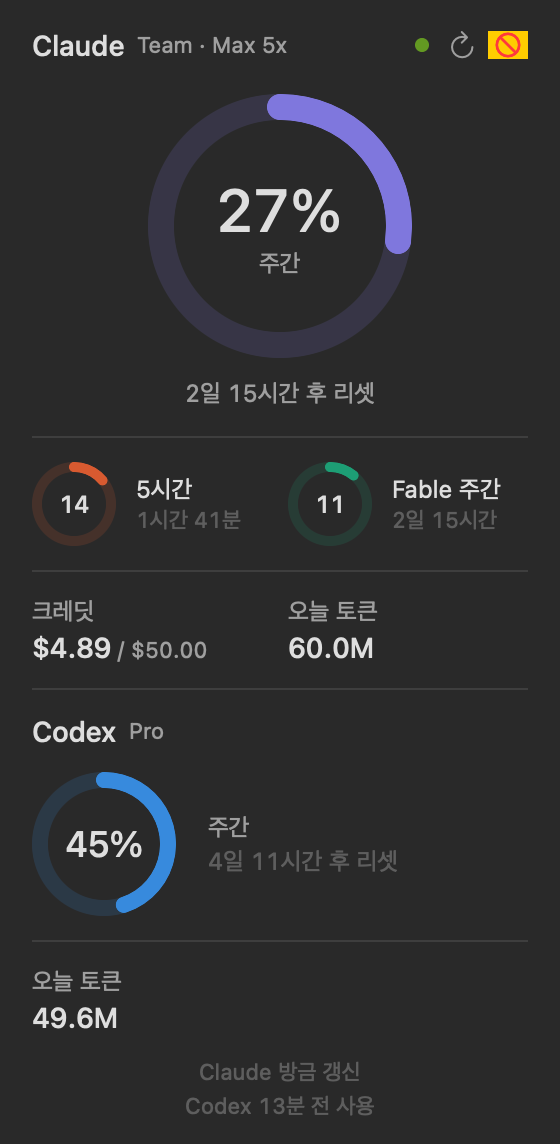
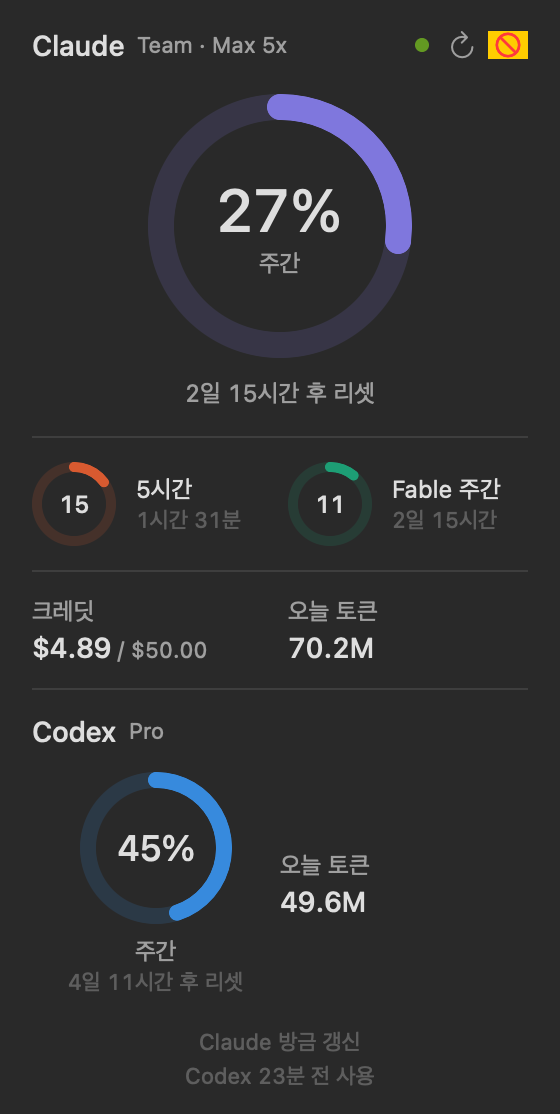
macOS: Codex section as one row (ring, name and reset below, stats on the right)

diff --git a/macos/Sources/ClaudeUsageBar/PanelView.swift b/macos/Sources/ClaudeUsageBar/PanelView.swift
@@ -91,7 +91,7 @@ struct PanelView: View {
                     .padding(.top, 12).padding(.bottom, 12)
             } else {
                 if primary { hero(s, now: now).padding(.top, 16).padding(.bottom, 14) }
-                else { sideHero(s, now: now).padding(.top, 12).padding(.bottom, 12) }
+                else { sideHero(s, now: now).padding(.top, 12).padding(.bottom, 4) }
                 let others = s.rows.filter { $0.id != s.active?.id }
                 if !others.isEmpty {
                     Divider()
@@ -102,7 +102,8 @@ struct PanelView: View {
                     .padding(.vertical, 12)
                 }
             }
-            if !s.stats.isEmpty {
+            // 두 번째 섹션(기본 모드)은 통계를 도넛 오른쪽에 붙였으므로 따로 줄을 두지 않는다
+            if !s.stats.isEmpty && (primary || settings.compactPanel) {
                 Divider()
                 HStack(alignment: .top) {
                     ForEach(Array(s.stats.enumerated()), id: \.offset) { _, st in
@@ -179,23 +180,32 @@ struct PanelView: View {
         }
     }
 
-    /// 두 번째 섹션용: 도넛 옆에 이름·리셋.
+    /// 두 번째 섹션용: 도넛과 그 아래 이름·리셋, 오른쪽에 통계(오늘 토큰 등).
     @ViewBuilder
     private func sideHero(_ s: Section, now: Date) -> some View {
         if let a = s.active {
-            HStack(spacing: 16) {
-                ZStack {
-                    Donut(percent: a.percent, color: Palette.color(for: a, stale: s.stale(a)), lineWidth: 8)
-                    Text("\(Format.percent(a.percent))%").font(.system(size: 18, weight: .medium)).monospacedDigit()
+            // 도넛 칸을 섹션 폭의 절반으로 두어, 오른쪽 통계가 위 섹션의 두 번째 칸(오늘 토큰)과 같은 줄에 선다
+            HStack(alignment: .center, spacing: 0) {
+                VStack(spacing: 6) {
+                    ZStack {
+                        Donut(percent: a.percent, color: Palette.color(for: a, stale: s.stale(a)), lineWidth: 8)
+                        Text("\(Format.percent(a.percent))%").font(.system(size: 18, weight: .medium)).monospacedDigit()
+                    }
+                    .frame(width: 76, height: 76)
+                    VStack(spacing: 1) {
+                        Text(a.name).font(.system(size: 12)).foregroundStyle(.secondary).lineLimit(1)
+                        Text(resetText(a, now: now)).font(.system(size: 11)).foregroundStyle(.tertiary).monospacedDigit()
+                    }
                 }
-                .frame(width: 72, height: 72)
-                VStack(alignment: .leading, spacing: 2) {
-                    Text(a.name).font(.system(size: 12)).foregroundStyle(.secondary).lineLimit(2)
-                    Text(resetText(a, now: now)).font(.system(size: 12)).foregroundStyle(.tertiary).monospacedDigit()
+                .frame(maxWidth: .infinity)
+                .contentShape(Rectangle()).onTapGesture(perform: toggleReset)
+                VStack(alignment: .leading, spacing: 12) {
+                    ForEach(Array(s.stats.enumerated()), id: \.offset) { _, st in
+                        stat(st.label, st.value).help(st.help ?? "")
+                    }
                 }
-                Spacer(minLength: 0)
+                .frame(maxWidth: .infinity, alignment: .leading)
             }
-            .contentShape(Rectangle()).onTapGesture(perform: toggleReset)
         }
     }
 
